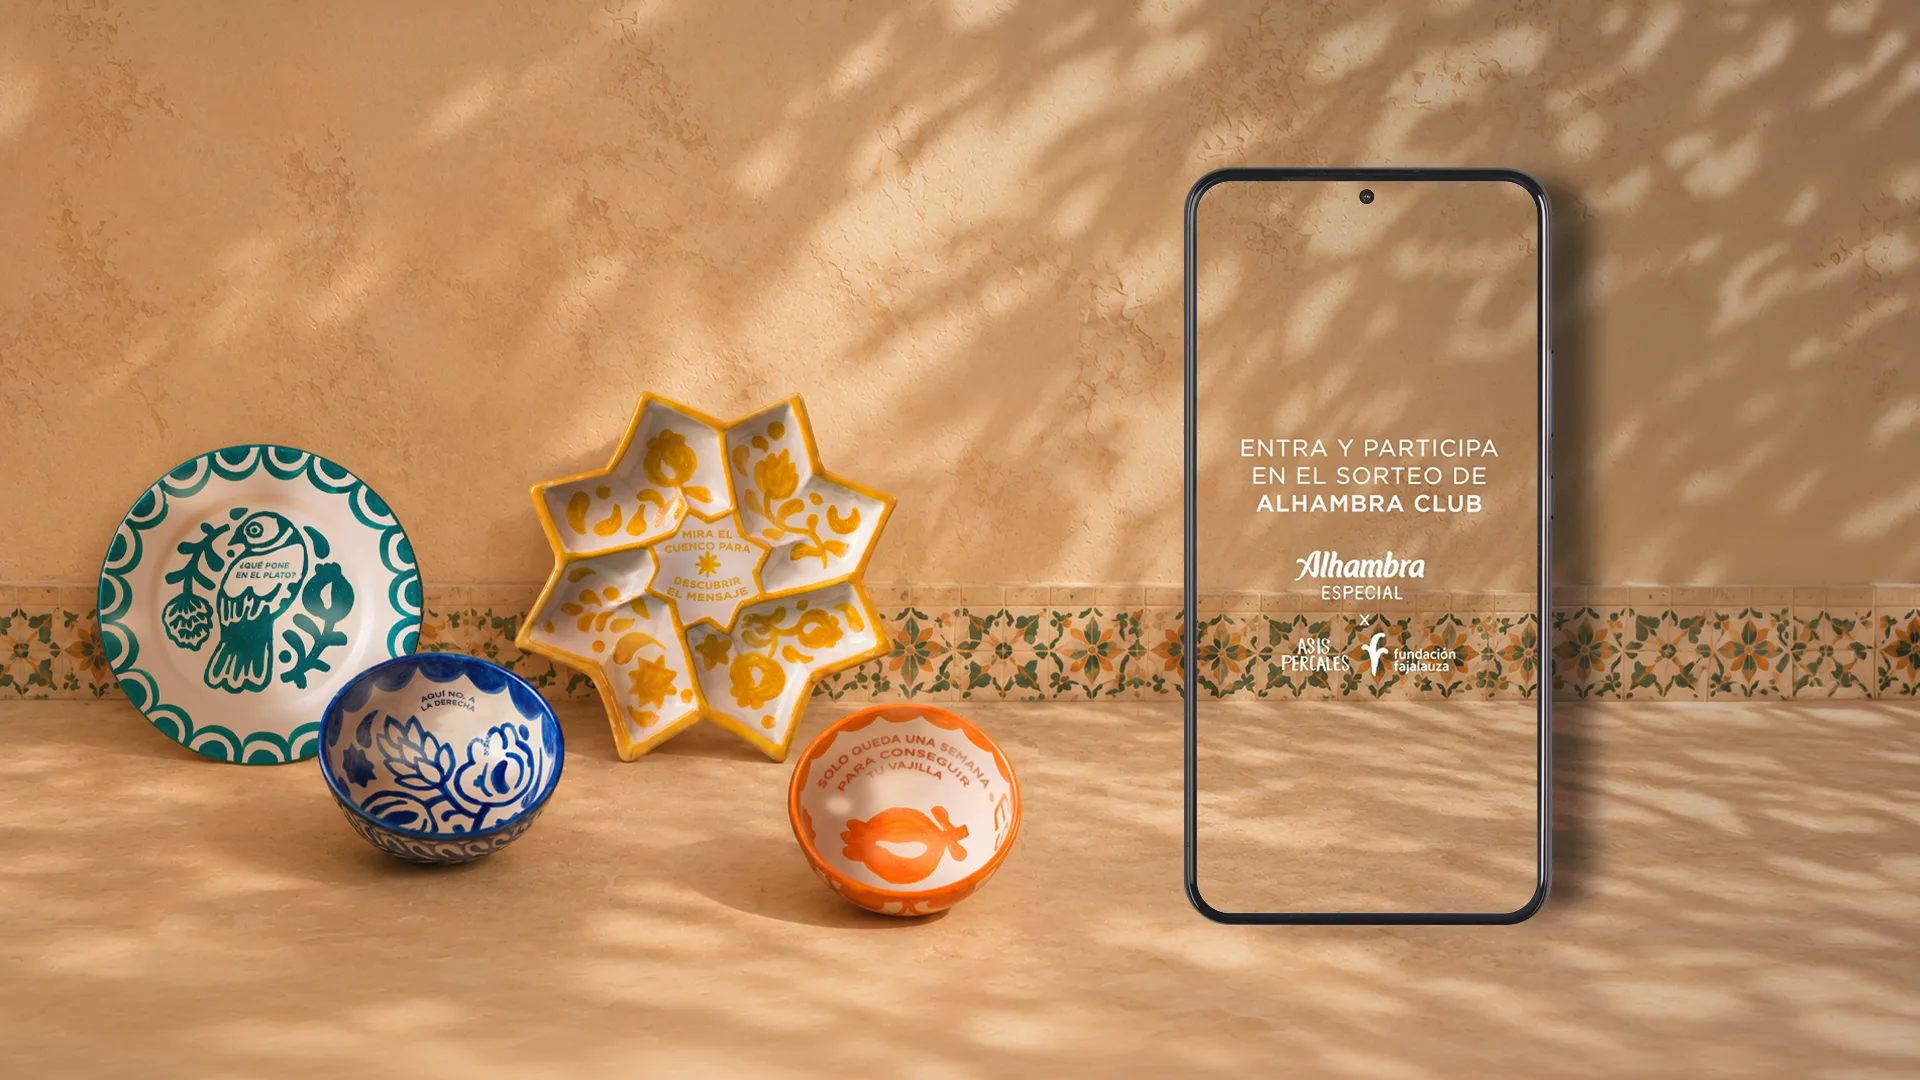
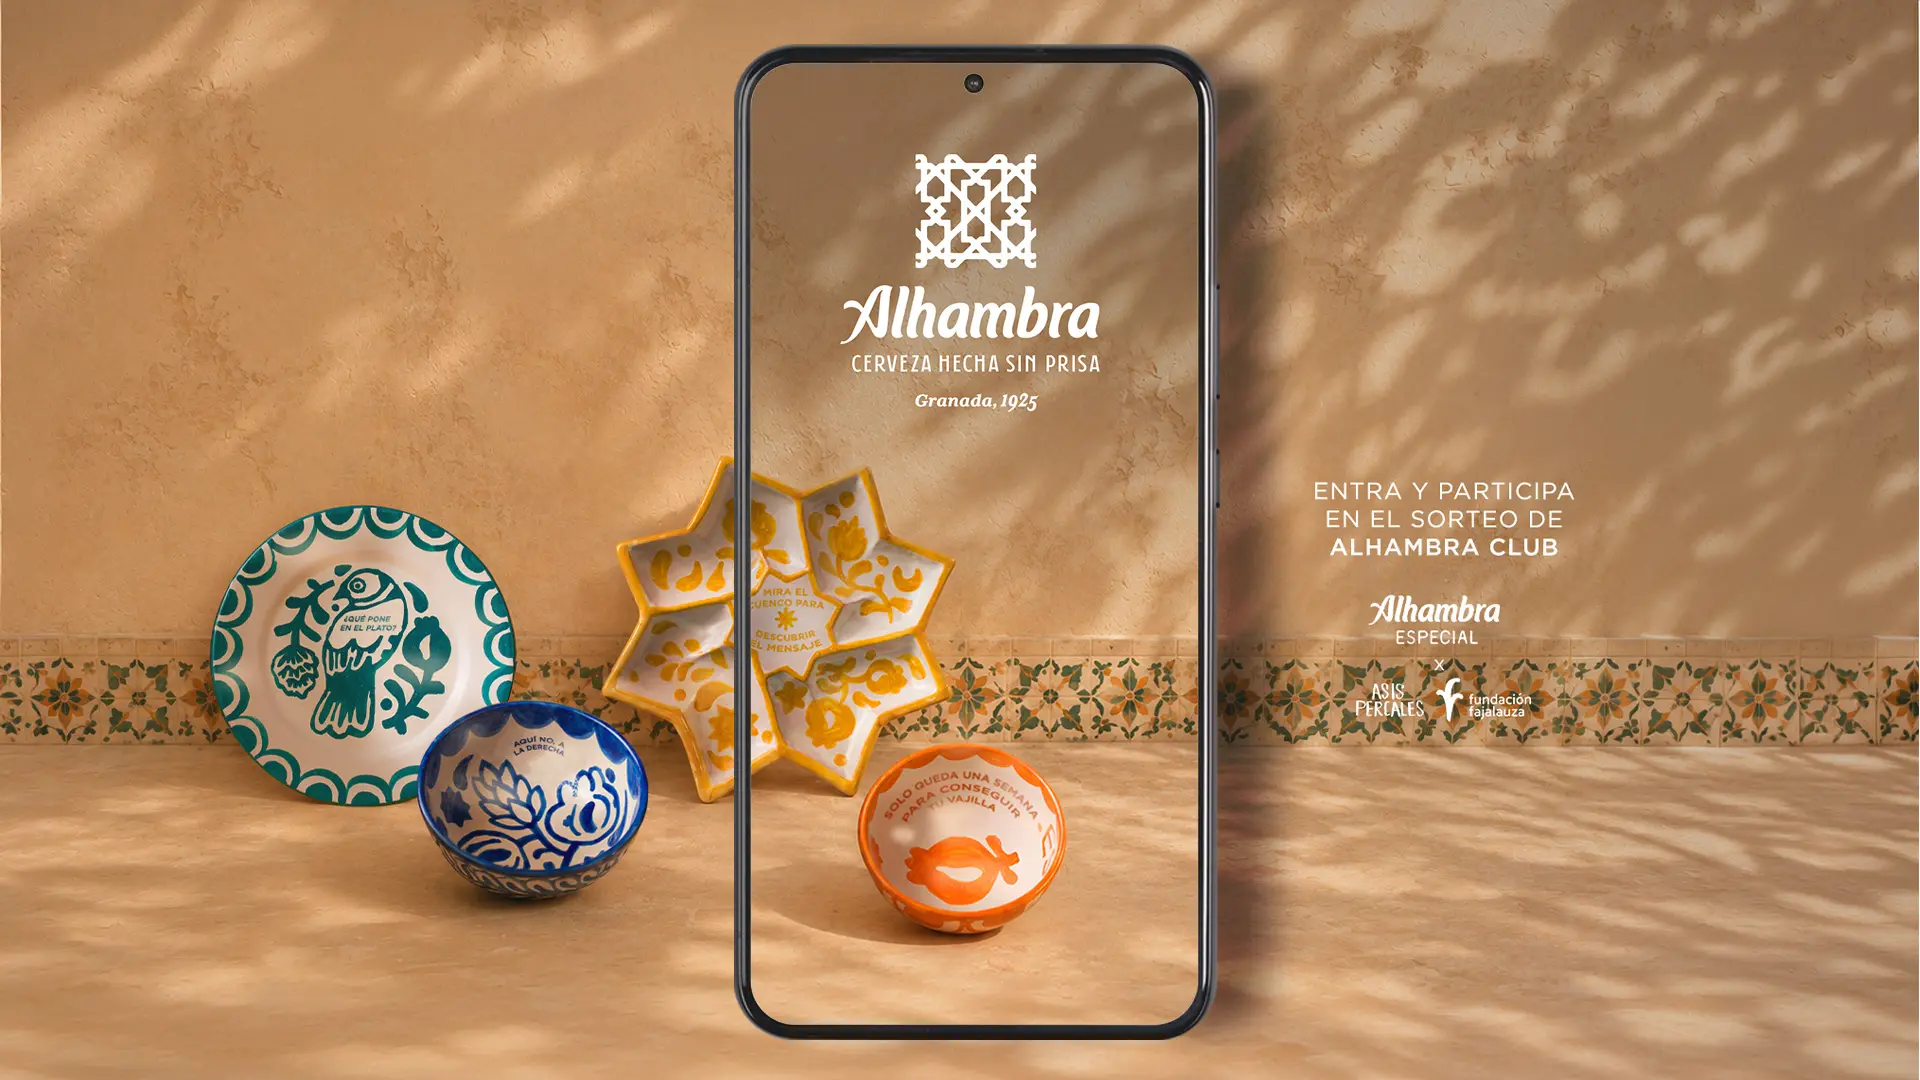
Wire in new uploaded cover images for all client cards
- Replaced the Abanca, BBVA, Skechers and Alhambra cover images with the
  newly uploaded (sharper) versions, compressed to webp
- Added a real Repsol cover image and brought the Repsol card back to the
  homepage grid and its project-page hero (was a gradient/wordmark
  placeholder before); removed the now-dead CSS for that placeholder
- Reset the per-card object-position overrides to center, since the phone
  mockup sits centered in all the new source images

diff --git a/index.html b/index.html
@@ -64,6 +64,7 @@
         <a href="proyecto-skechers.html" class="card reveal" data-tint="flare"><div class="card-inner" data-card-inner><div class="card-img-layer"><img src="imgs/skechers/portada.webp" alt="" class="pos-skechers-card"></div></div><div class="card-overlay"><div class="card-label"><h3>Skechers</h3><div class="meta"><span class="card-num">03</span><div class="tag-row"><span class="tag">Retail deportivo</span></div></div></div></div></a>
         <div class="card reveal" data-tint="peri"><div class="card-inner" data-card-inner><div class="card-img-layer"><img src="imgs/alhambra/portada.webp" alt="" class="pos-alhambra-card"></div></div><div class="card-overlay"><div class="card-label"><h3>Alhambra</h3><div class="meta"><span class="card-num">04</span><div class="tag-row"><span class="tag">Video Editing</span><span class="tag">Social Media</span></div></div></div></div></div>
         <a href="proyecto-tfm-eurodesk.html" class="card reveal" data-tint="sun"><div class="card-inner" data-card-inner><div class="card-img-layer"></div></div><div class="card-overlay"><div class="card-label"><h3>Rompiendo Barreras</h3><div class="meta"><span class="card-num">05</span><div class="tag-row"><span class="tag">TFM · UX/UI</span></div></div></div></div></a>
+        <a href="proyecto-repsol.html" class="card reveal" data-tint="ink"><div class="card-inner" data-card-inner><div class="card-img-layer"><img src="imgs/repsol/portada.webp" alt="" class="pos-repsol-card"></div></div><div class="card-overlay"><div class="card-label"><h3>Repsol</h3><div class="meta"><span class="card-num">06</span><div class="tag-row"><span class="tag">Energía</span></div></div></div></div></a>
       </div>
     </div>
   </section>

diff --git a/styles.css b/styles.css
@@ -123,9 +123,10 @@ section{padding:96px 0;}
 .card[data-tint="peri"]  .card-img-layer{background:var(--peri);}
 .card[data-tint="ink"]   .card-img-layer{background:var(--ink);}
 .card-img-layer img{width:100%;height:100%;object-fit:cover;display:block;}
-.card-img-layer img.pos-abanca-card{object-position:95% center;}
-.card-img-layer img.pos-skechers-card{object-position:72% center;}
-.card-img-layer img.pos-alhambra-card{object-position:72% center;}
+.card-img-layer img.pos-abanca-card{object-position:center;}
+.card-img-layer img.pos-skechers-card{object-position:center;}
+.card-img-layer img.pos-alhambra-card{object-position:center;}
+.card-img-layer img.pos-repsol-card{object-position:center;}
 
 /* decorative SVG icon inside the colour field */
 .card-img-layer svg{
@@ -300,9 +301,6 @@ footer a:hover{color:var(--flare);}
 .project-hero-scrim p{color:rgba(250,250,250,.82);font-size:15px;margin-top:8px;max-width:640px;}
 
 /* brand hero — gradient + wordmark instead of a screenshot, used when a client's own identity is the cover */
-.project-hero-brand{width:100%;height:100%;display:flex;align-items:center;justify-content:center;}
-.project-hero-brand.repsol{background:linear-gradient(135deg,#FF8A00 0%,#E2001A 100%);}
-.brand-wordmark{font-family:'Fraunces',serif;font-weight:600;font-style:italic;font-size:clamp(34px,6vw,68px);color:#fff;letter-spacing:.01em;}
 
 /* 2. Client line */
 .project-meta{padding:18px 0;font-family:'JetBrains Mono',monospace;font-size:13px;text-transform:uppercase;letter-spacing:.03em;color:var(--ink-soft);}

diff --git a/proyecto-repsol.html b/proyecto-repsol.html
@@ -30,9 +30,9 @@
     <a href="index.html#work" class="back-link"><svg viewBox="0 0 24 24" fill="none" stroke="currentColor" stroke-width="2"><path d="M19 12H5M12 19l-7-7 7-7"/></svg>Volver a clientes</a>
   </div>
 
-  <!-- 1. HEADER — degradado de marca; el texto aparece al hover -->
-  <div class="project-hero" data-tint="ink">
-    <div class="project-hero-brand repsol"><span class="brand-wordmark">Repsol</span></div>
+  <!-- 1. HEADER — imagen a sangre completa -->
+  <div class="project-hero ratio-16-9" data-tint="ink">
+    <img class="project-hero-img" src="imgs/repsol/portada.webp" alt="Repsol Glosario Digital — mockup de móvil">
     <div class="project-hero-scrim">
       <div>
         <h1>Repsol — comunicación interna y rebranding</h1>
